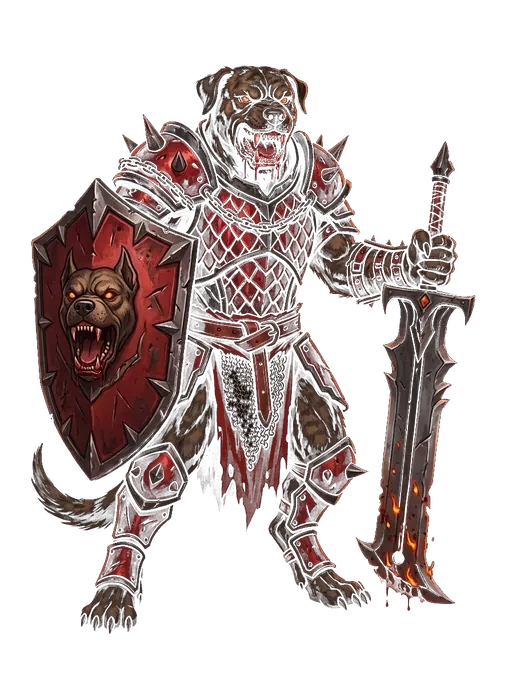
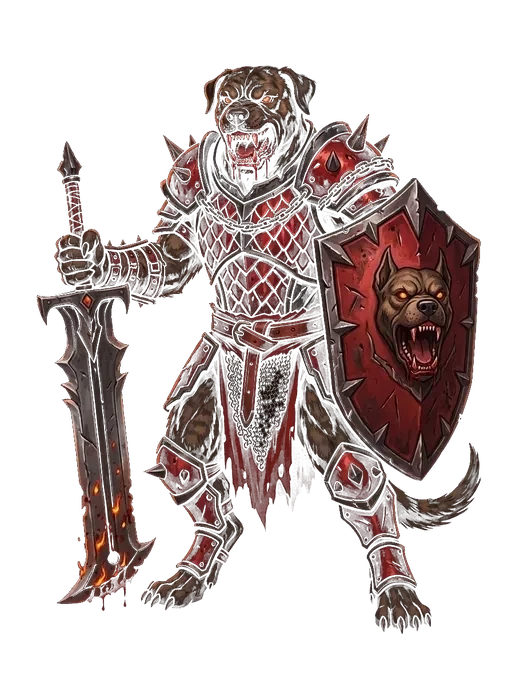
fix(pve): bake+lock ch3 tank/fighter face left
Re-bake redd-tank/fighter cutouts pixel-LEFT (Алый щитоносец /
Пёс-углежуй stood with backs to the fight). Keep MONSTER_NATIVE_FACE_LEFT
locks; ?v=d040ch3tf on those arts + app.js; also bust ch1/ch2 face URLs.

diff --git a/client/web-hud/public/app.js b/client/web-hud/public/app.js
@@ -3187,7 +3187,8 @@ const MONSTER_BATTLE_BY_FACTION = {
     tank: ["/stitch-assets/monsters/battle/tank-b.webp"],
     // Grey dual-club fighter-h (обычный пёс). Do NOT use fighter-b — that dual-axe red plate
     // is the ch3 red-dog look (Andrew: ch1 showed «красный пёс»).
-    fighter: ["/stitch-assets/monsters/battle/fighter-h.webp"],
+    // ?v= busts Amvera/browser max-age=300 after in-place facing rebakes (D-040).
+    fighter: ["/stitch-assets/monsters/battle/fighter-h.webp?v=d040ch1f"],
     support: ["/stitch-assets/monsters/battle/ranger-a.webp"],
     pitboss: ["/stitch-assets/monsters/battle/tank-d.webp"],
   },
@@ -3195,13 +3196,14 @@ const MONSTER_BATTLE_BY_FACTION = {
     // Ch2 RGBA cutouts (new filenames bust 7d immutable cache of black-plate RGB).
     tank: ["/stitch-assets/monsters/battle/wolf-tank-cutout.webp"],
     fighter: ["/stitch-assets/monsters/battle/wolf-fighter-cutout.webp"],
-    support: ["/stitch-assets/monsters/battle/wolf-support-cutout.webp"],
+    support: ["/stitch-assets/monsters/battle/wolf-support-cutout.webp?v=d040ch2s"],
     pitboss: ["/stitch-assets/monsters/battle/wolf-pitboss-cutout.webp"],
   },
   red_dogs: {
     // Ch3 refs: shield tank / dual-axe fighter / flaming-sickle support; flaming-sword pitboss.
-    tank: ["/stitch-assets/monsters/battle/redd-tank-cutout.webp"],
-    fighter: ["/stitch-assets/monsters/battle/redd-fighter-cutout.webp"],
+    // ?v= after in-place facing rebakes (Amvera/browser max-age=300).
+    tank: ["/stitch-assets/monsters/battle/redd-tank-cutout.webp?v=d040ch3tf"],
+    fighter: ["/stitch-assets/monsters/battle/redd-fighter-cutout.webp?v=d040ch3tf"],
     support: ["/stitch-assets/monsters/battle/redd-support-cutout.webp"],
     pitboss: ["/stitch-assets/monsters/battle/redd-pitboss-cutout.webp"],
   },
@@ -3317,7 +3319,8 @@ const DUMMY_NATIVE_FACE_LEFT = new Set([
 // Only assets authored aiming/looking LEFT. Default native = RIGHT → flip for desired left.
 // Do NOT list: ranger-a, tank-b, wolf-tank/pitboss (shield/glow RIGHT → flip).
 // Pixel-LEFT locks (listed so CSS never mirrors them away):
-// fighter-h (ch1 Пёс-задира), wolf-support-cutout (ch2 Шаман инея), ch3 redd-*.
+// fighter-h (ch1), wolf-support (ch2), redd-tank/fighter re-baked (ch3 Алый щитоносец / Пёс-углежуй),
+// redd-support/pitboss, zombie-pitboss.
 const MONSTER_NATIVE_FACE_LEFT = new Set([
   "assassin-b",
   "fighter-f",

diff --git a/client/web-hud/public/index.html b/client/web-hud/public/index.html
@@ -6846,6 +6846,6 @@
   </aside>
 
   <nav id="hubTabs" class="hidden" aria-hidden="true"></nav>
-  <script type="module" src="/app.js?v=d040ch2s"></script>
+  <script type="module" src="/app.js?v=d040ch3tf"></script>
 </body>
 </html>

diff --git a/client/web-hud/public/stitch-assets/monsters/battle/README.md b/client/web-hud/public/stitch-assets/monsters/battle/README.md
@@ -17,7 +17,7 @@ Ch1 dogs → grey armored cutouts (`tank-b` / `fighter-h` / `ranger-a`, pitboss 
 `fighter-h` = обычный пёс (dual clubs), pixel-authored facing **left** + `MONSTER_NATIVE_FACE_LEFT` (locked). Do not map ch1 to `fighter-b` — that red dual-axe plate is ch3.
 Ch2 wolves → RGBA `wolf-*-cutout.webp` (tank/fighter/support/pitboss). Do not reintroduce RGB studio plates.
 `wolf-support-cutout` (Шаман инея) pixel-authored facing **left** + `MONSTER_NATIVE_FACE_LEFT` (locked).
-Ch3 red dogs → RGBA `redd-*-cutout.webp` (shield tank / dual-axe fighter / flaming-sickle support / flaming-sword pitboss). All four pixel-authored facing **left** (D-040); listed in `MONSTER_NATIVE_FACE_LEFT`.
+Ch3 red dogs → RGBA `redd-*-cutout.webp` (shield tank / dual-axe fighter / flaming-sickle support / flaming-sword pitboss). All four listed in `MONSTER_NATIVE_FACE_LEFT`. `redd-tank` / `redd-fighter` re-baked pixel-LEFT (Andrew: стояли спиной к бою); support already left.
 Ch4 zombies → RGBA `zombie-*-cutout.webp` (axe tank / cleaver fighter / dagger support / scythe pitboss).
 Ch5 ghosts → RGBA `ghost-*-cutout.webp` (flail-shield tank / scimitar fighter / shaman support / banner-sword pitboss).
 Load/fight backdrops: `pve-load/chapter-2-frost.webp` + `pve-fight/ch2-{entrance,tunnel,boss}.webp` (order locked).
